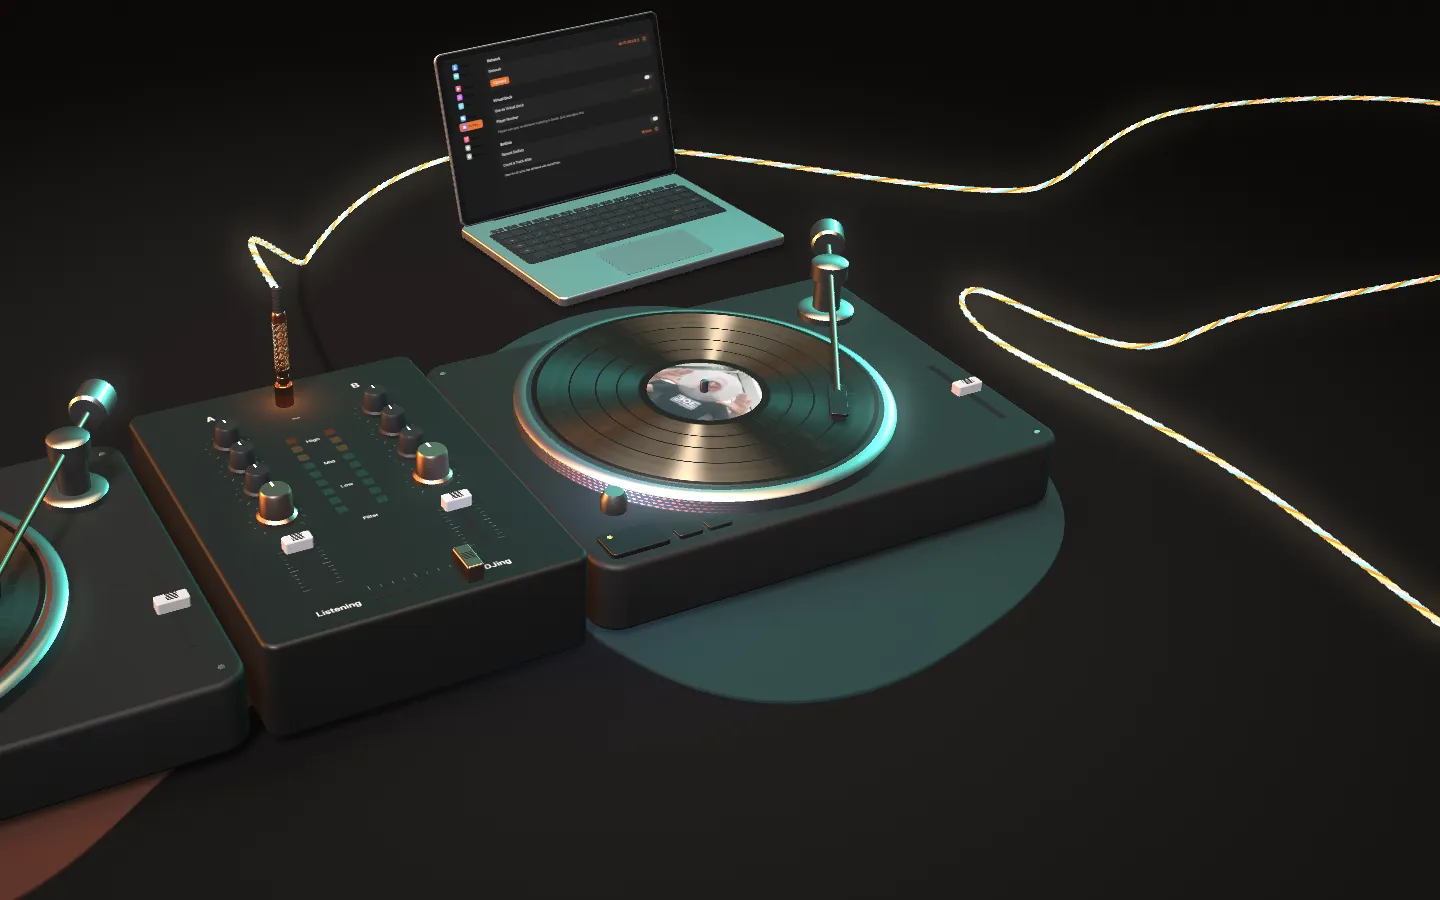
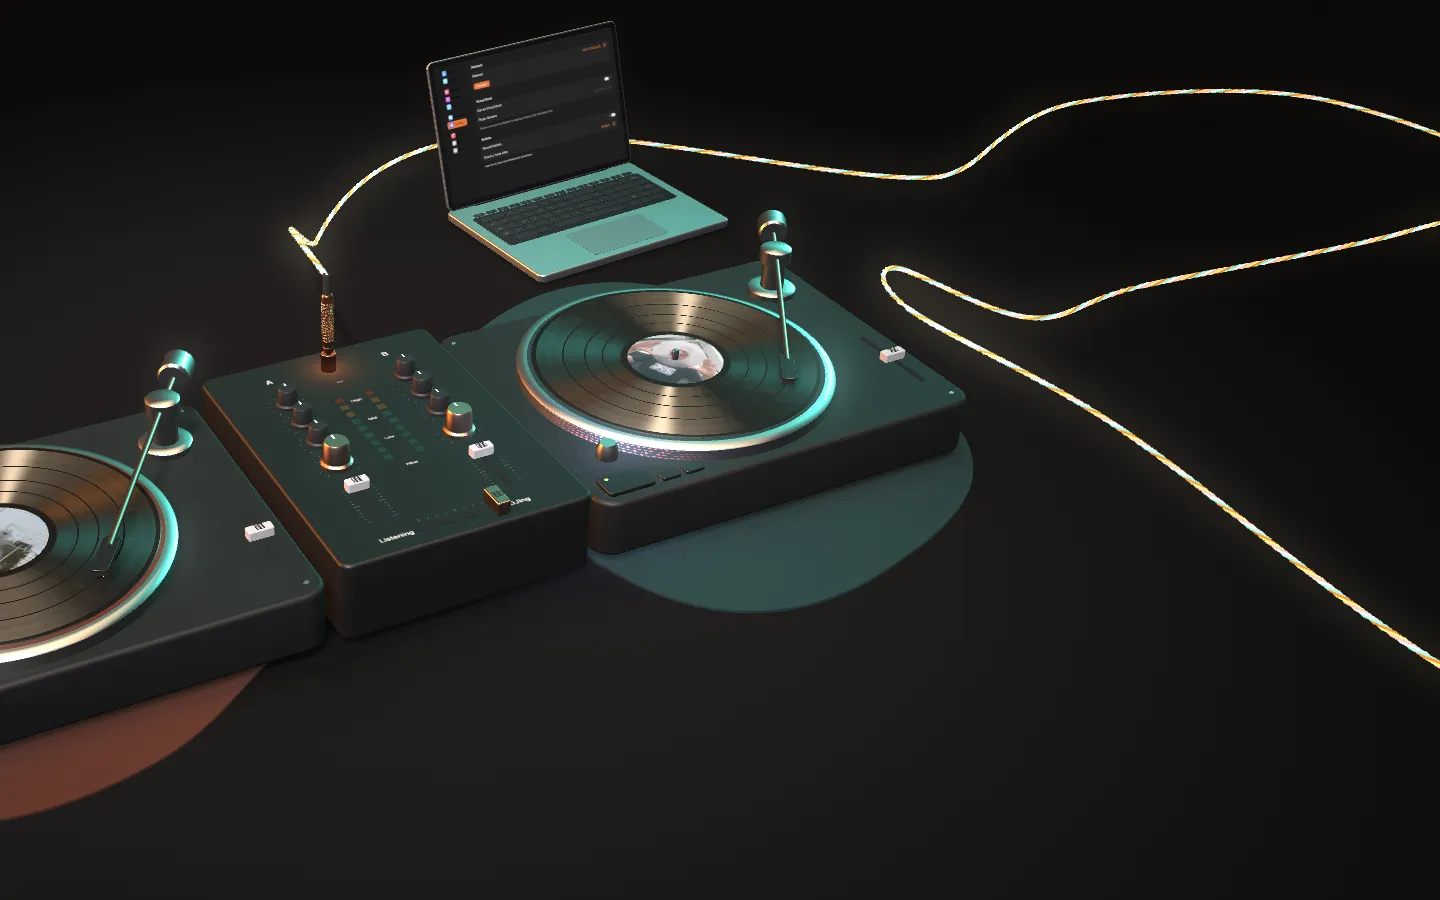
Website: DJ copy keeps full width on phones, booth plates re-rendered

diff --git a/docs/assets/site.css b/docs/assets/site.css
@@ -205,7 +205,7 @@ html[data-plug="0"] .try .played, html[data-plug="1"] .try .hint { opacity: 0; v
   main { padding-top: 104px; }
   .live .side { left: var(--pad); right: var(--pad); width: auto; top: auto; bottom: max(26px, env(safe-area-inset-bottom)); transform: none; gap: .8rem; }
   .live .hero .side { top: 112px; bottom: auto; width: auto; gap: .8rem; }
-  .live .listen .side, .live .output .side, .live .decks .side, .live .booth .side, .live .rekordbox .side { width: auto; top: auto; bottom: max(26px, env(safe-area-inset-bottom)); transform: none; }
+  .live .listen .side, .live .output .side, .live .decks .side.a, .live .decks .side.b, .live .booth .side, .live .rekordbox .side { width: auto; top: auto; bottom: max(26px, env(safe-area-inset-bottom)); transform: none; }
   .live .hero .side.b { justify-items: start; text-align: left; }
   .live .cap { font-size: 1rem; line-height: 1.45; }
   .live .try { font-size: .9375rem; }
